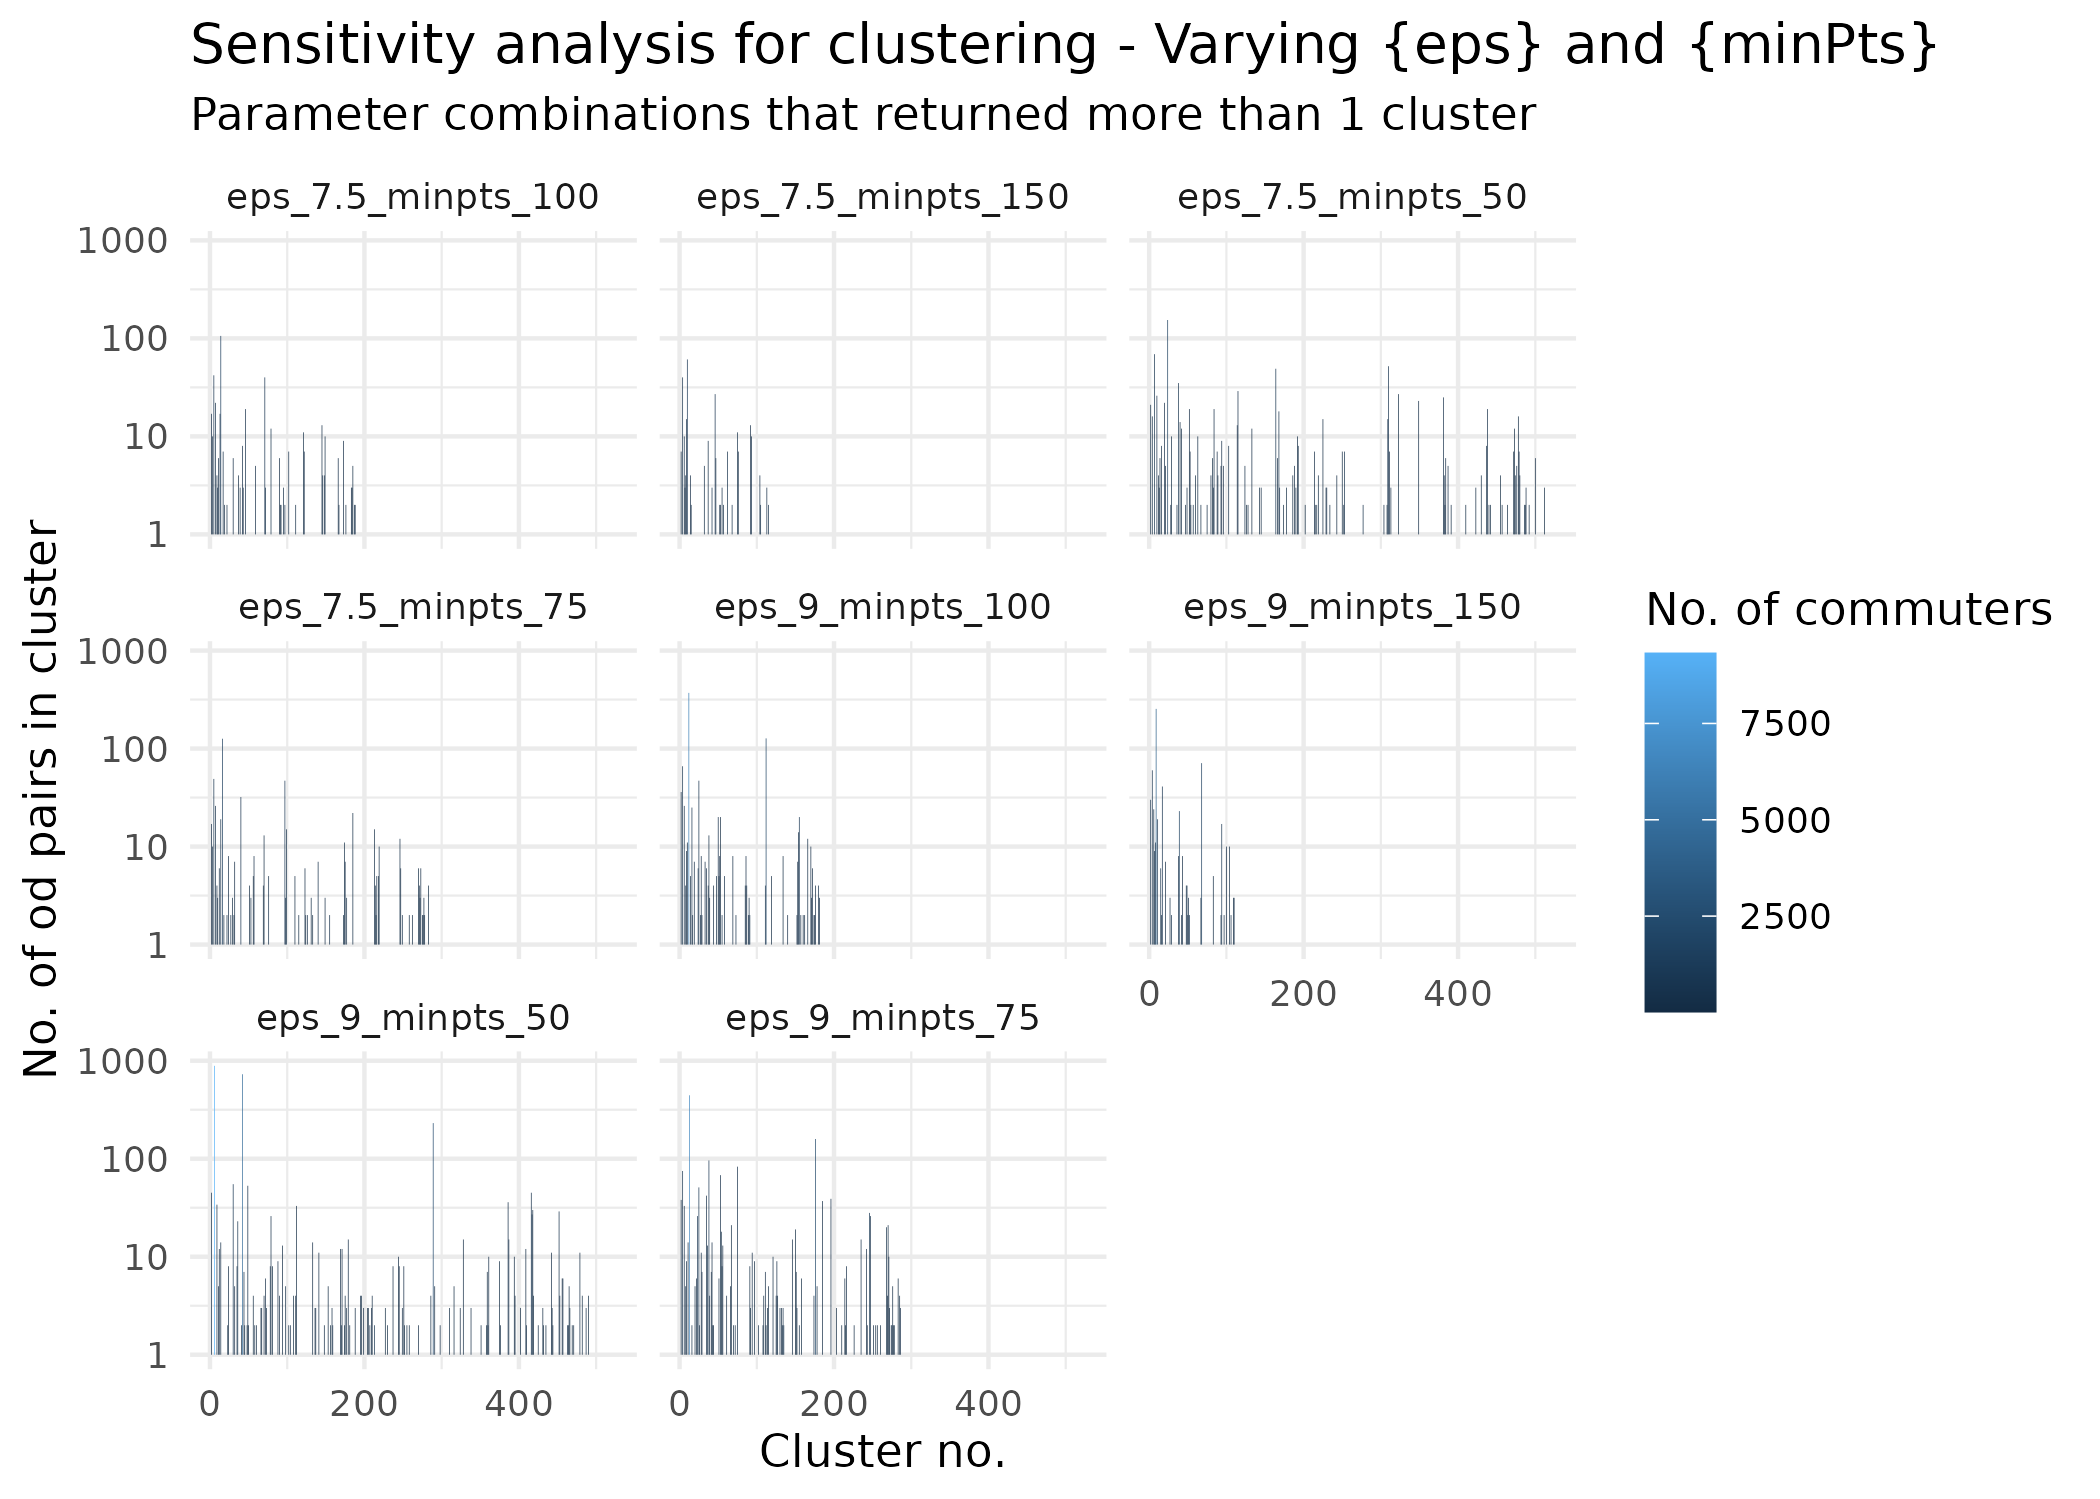
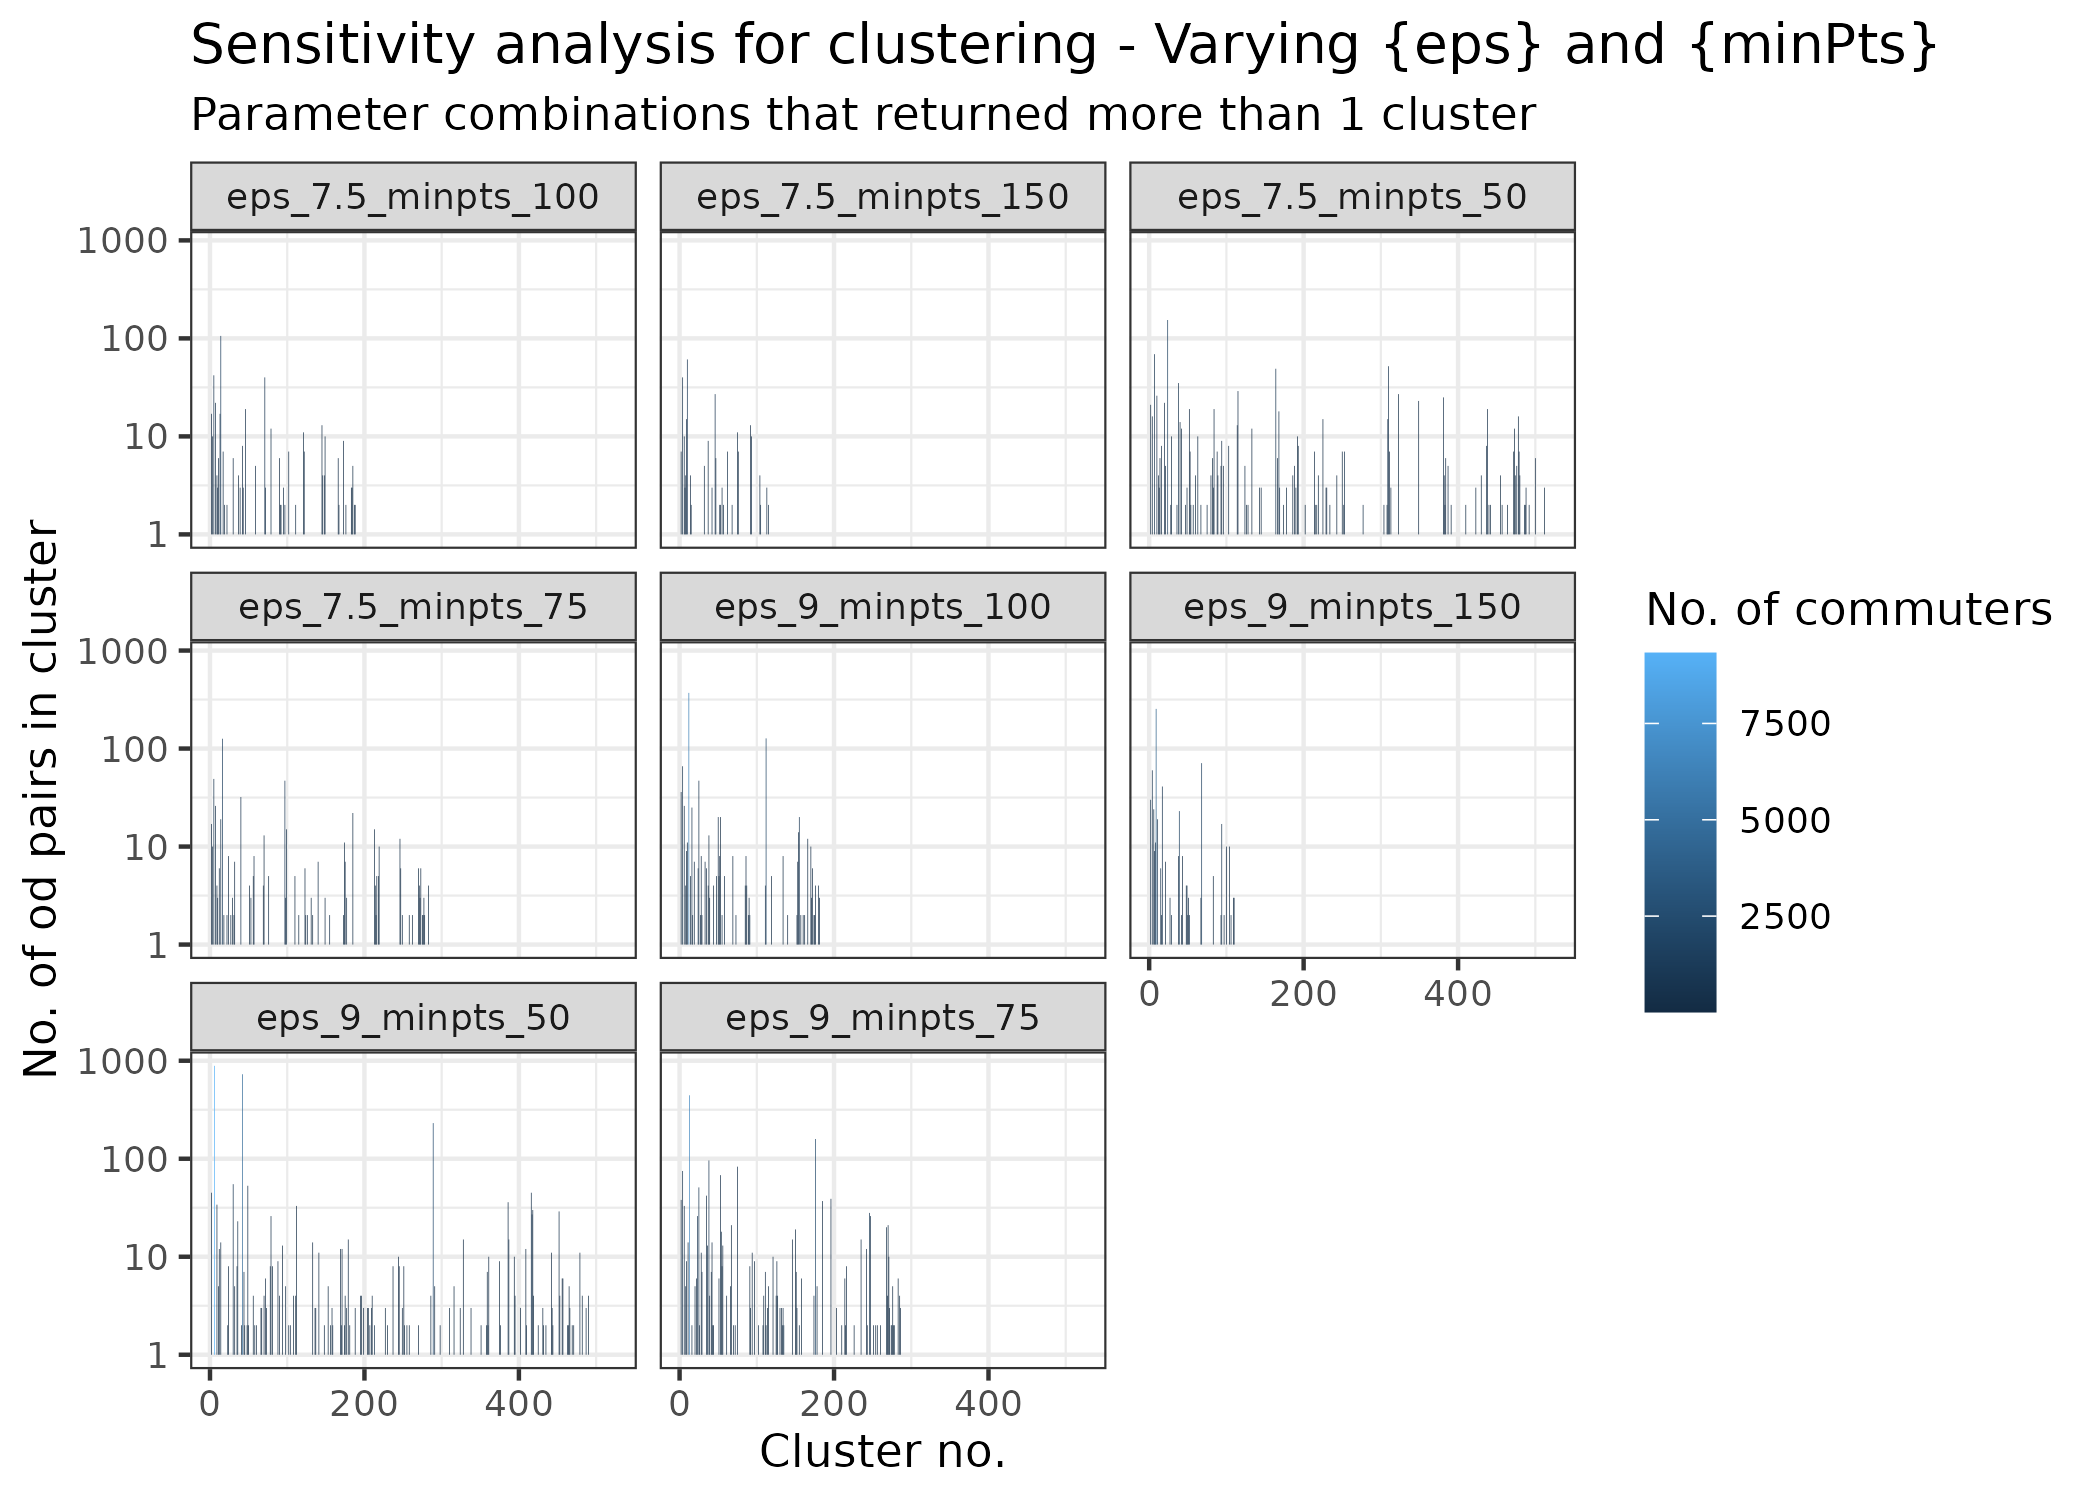
edit sensitivity figure

diff --git a/README.md b/README.md
@@ -358,15 +358,10 @@ sensitivity_results %>%
        x = "Cluster no.",
        y = "No. of od pairs in cluster",
        fill= "No. of commuters") +
- theme_minimal()
+ theme_bw()
 ```
 
 ![](README_files/figure-commonmark/unnamed-chunk-16-1.png)
-
-``` r
-# save the output
-ggsave("man/figures/sensitivity_results.png")
-```
 
 ![](man/figures/sensitivity_results.png)
 
